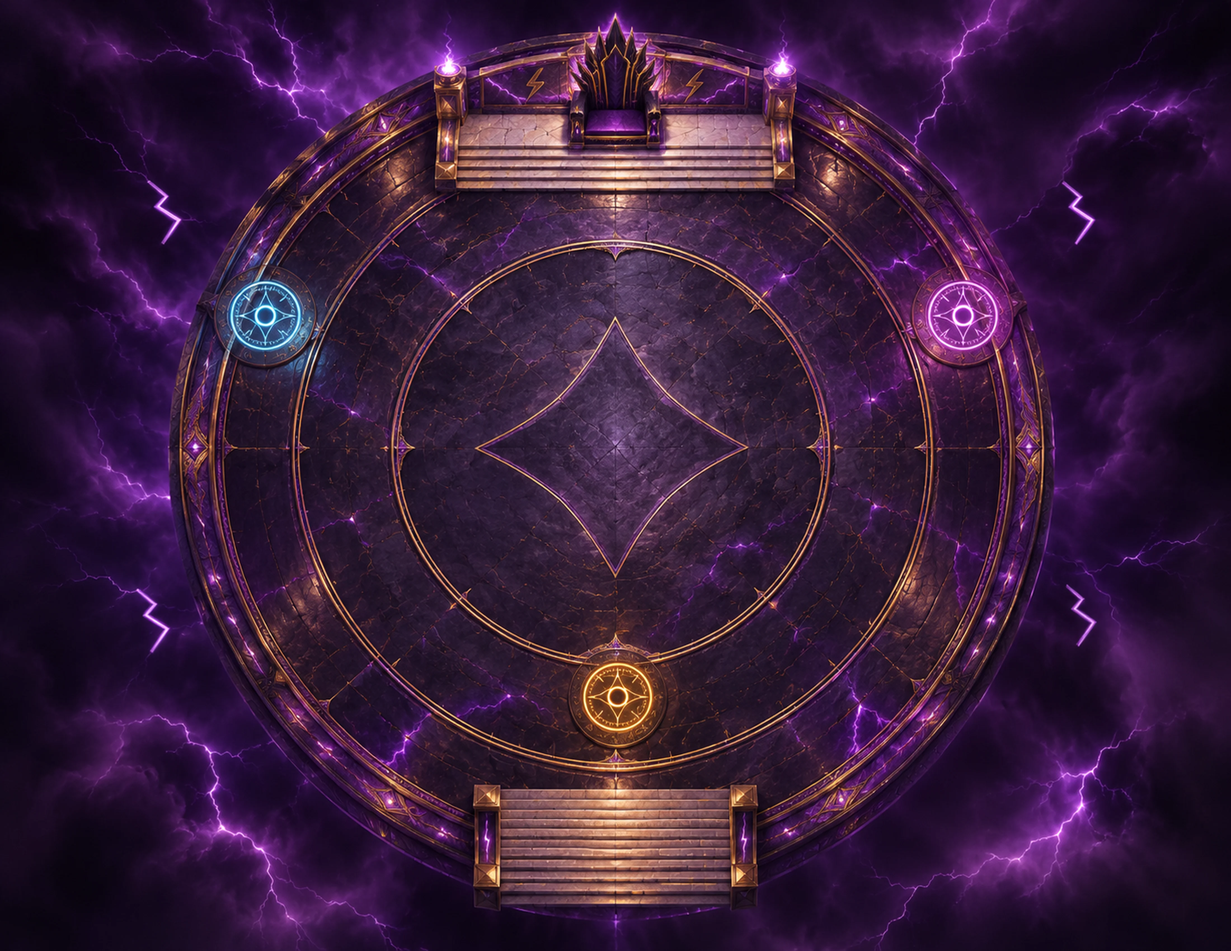
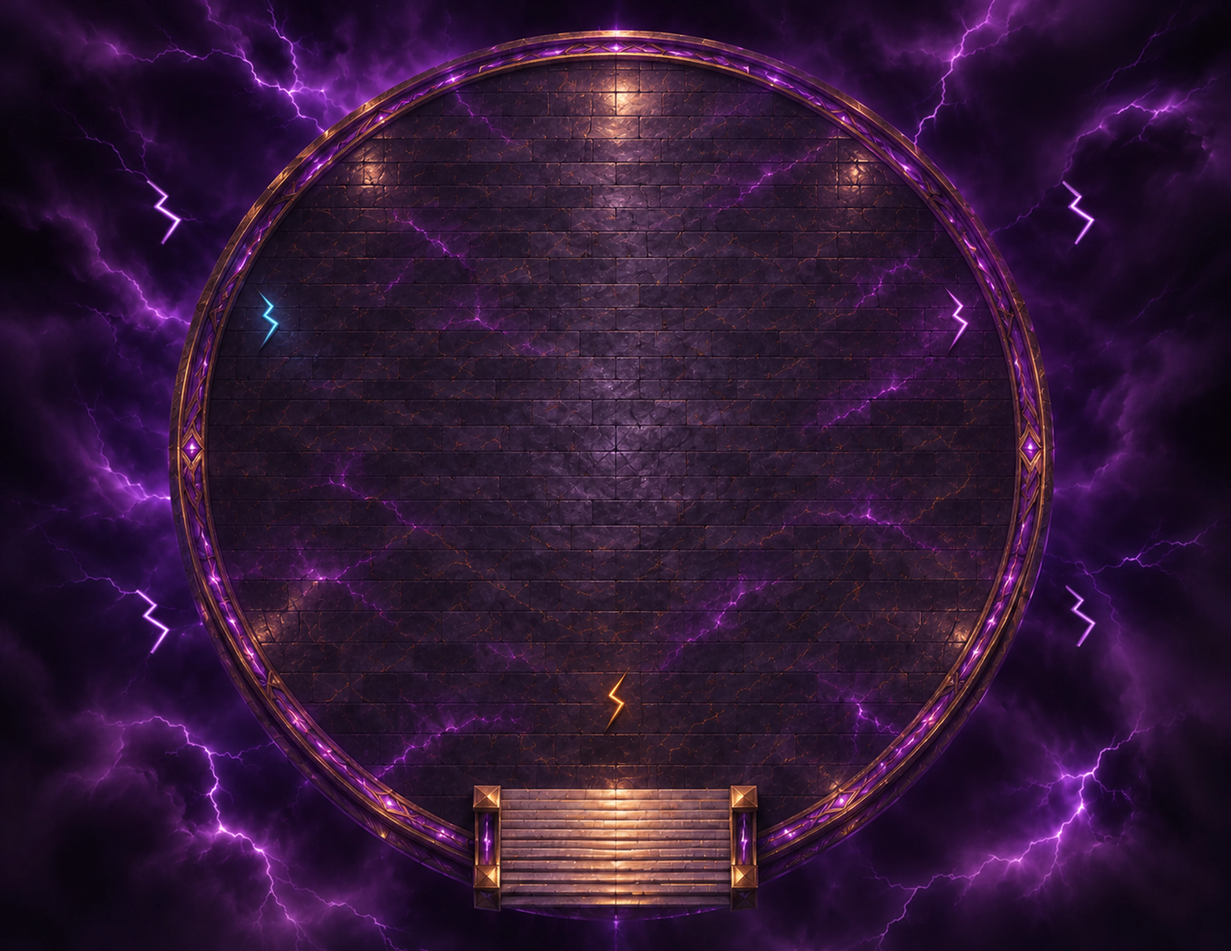
Revise the imperial arenas

diff --git a/README.md b/README.md
@@ -25,7 +25,7 @@
 | [Проспект белого камня](assets/maps/avenue.webp) | 36 × 26 | Суй Жэнь, охотник-заклинатель, CR 14 |
 | [Канал двух фонарей](assets/maps/canal.webp) | 40 × 28 | Мэй Янь, охотница-заклинательница, CR 15 |
 | [Двор Бронзового колокола](assets/maps/court.webp) | 34 × 26 | Гао Вэнь, заклинатель-мечник, CR 16 |
-| [Зал пурпурных знамён](assets/maps/hall.webp) | 36 × 26 | Ли Шэнь, Страж Императора, CR 20 |
+| [Зал пурпурных знамён](assets/maps/hall.webp) | 24 × 36 | Ли Шэнь, Страж Императора, CR 20 |
 | [Покои Бога Молний](assets/maps/throne.webp) | 44 × 34 | Император, Бог Молний, CR 50 |
 
 Карты WebP, квадратная сетка 100 px на клетку, 5 футов на клетку, поля 0%. Token Vision и Fog Exploration отключены на всех сценах. Стены у зданий и колонн ограничивают перемещение. Подсказки по укрытиям и воде находятся в журнале.
